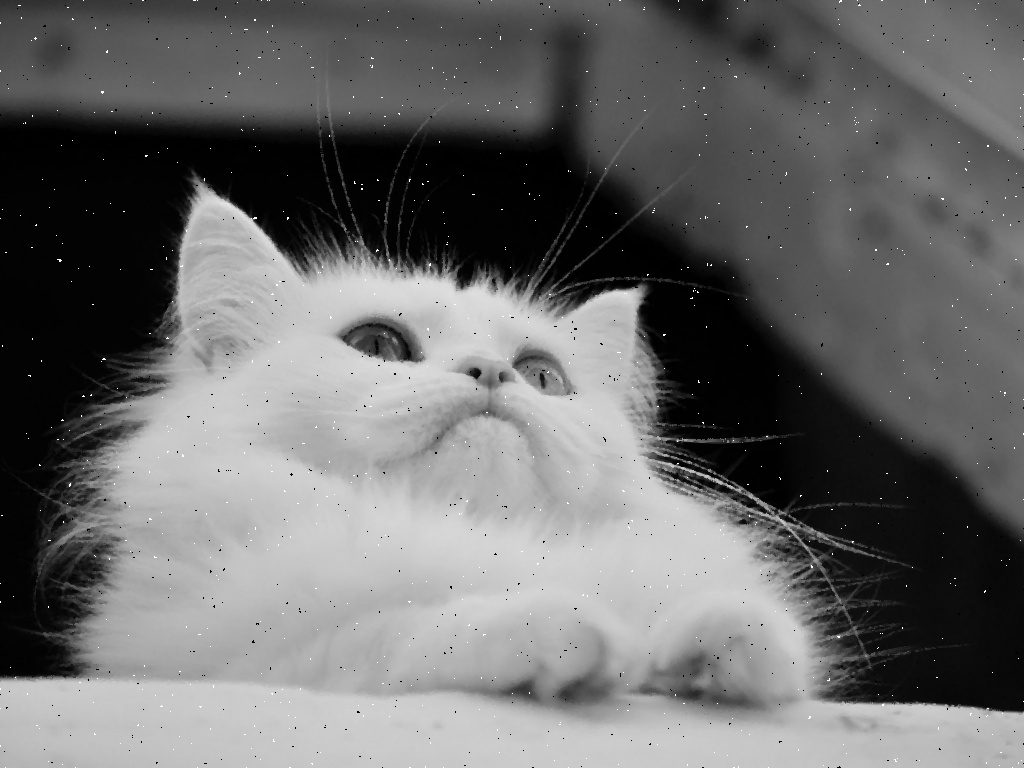
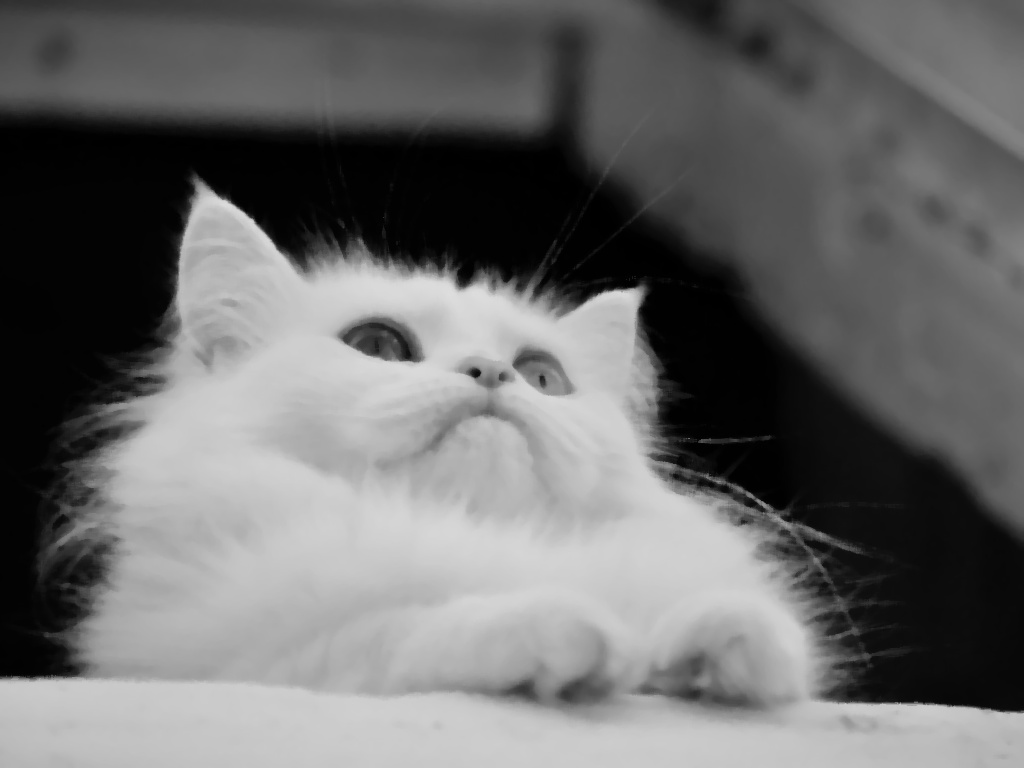
radius = 3 => ksize = 7

diff --git a/Lab2/Lab2/main.cpp b/Lab2/Lab2/main.cpp
@@ -32,7 +32,7 @@ int main()
     Timer t1;
     try
     {
-        medianImage = median(greyImage, 3);
+        medianImage = median(noise, 3);
     }
     catch (const char* message)
     {
@@ -43,7 +43,7 @@ int main()
 
     Mat openCVMedian;
     t1.reset();
-    medianBlur(noise, openCVMedian, 3);
+    medianBlur(noise, openCVMedian, 7);
     std::cout << "openCVMedian time: " << t1.elapsed() << std::endl;
     imwrite("image/openCVMedian.jpg", openCVMedian);
 
@@ -51,7 +51,7 @@ int main()
     t1.reset();
     try
     {
-        gaussianImage = gaussian(greyImage, 1, 3);
+        gaussianImage = gaussian(noise, 1, 3);
     }
     catch (const char* message)
     {
